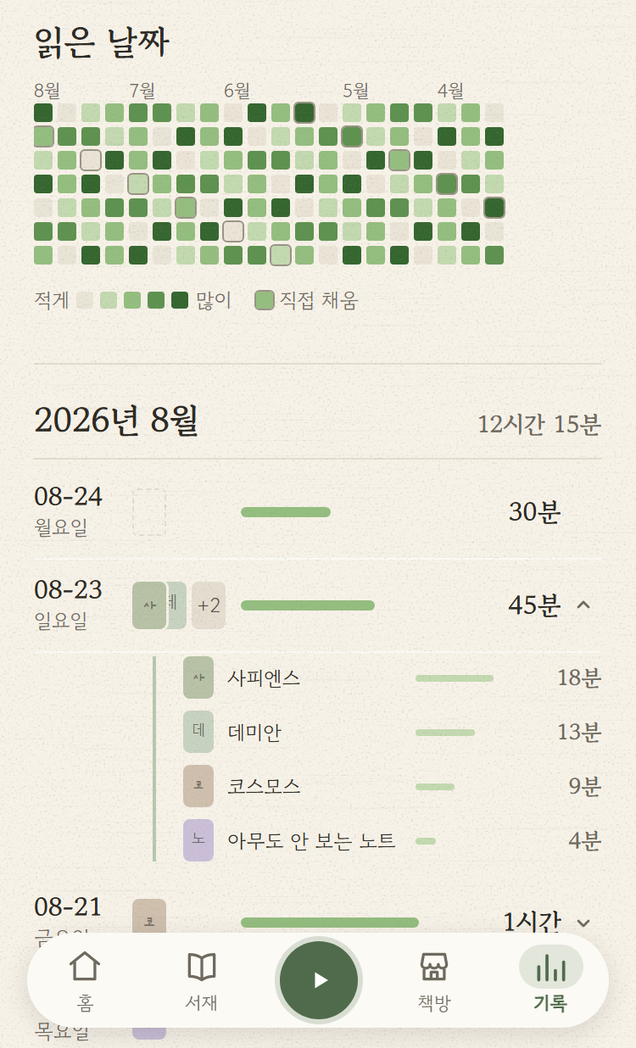
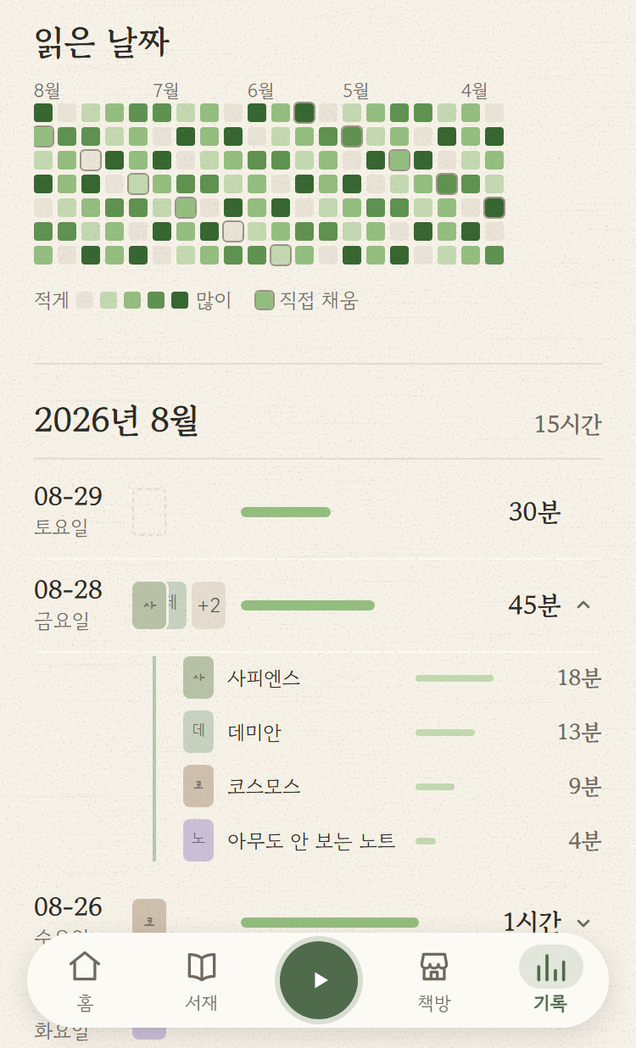
feat(미니앱): 성장 식물 시스템 폐기 1단계 — 기록 상단을 담백한 스탯 줄로 (#983)
* feat(미니앱): 성장 식물 시스템 폐기 1단계 — 기록 상단을 담백한 스탯 줄로

연속일 사다리(땅→새싹→꽃→나무)를 전면 폐기하기로 한 사용자 결정의 1단계.
화면에서 성장 카드를 걷고 그 자리를 상자 없는 스탯 줄(연속·읽은 날·총 시간)로
되돌린다 — 카드가 데려가 있던 연속이 화면으로 돌아온다.

서버는 한 줄도 안 건드린다. 지금 라이브인 6차 번들이 growthStage* 필드를
읽고 있어 먼저 지우면 배포된 앱이 깨진다. JSON에 여분 필드가 남는 것은
클라이언트에 무해하므로 서버 제거는 새 번들 라이브 확인 후 2단계로 미룬다.

- 미니앱: GrowthCard·growthNudge 제거, StatStrip 신설(총 시간 칸만 flex 1.5)
- 타입·목·픽스처에서 growth 6필드 제거
- 웹: 표시가 애초에 없어 타입 선언·테스트 픽스처만 정리(번들 산출물 diff 0)

시안의 fontSize 18은 typography.test의 계단에 없어 19를 썼다.

Session-Model: claude-opus-5[1m]

* refactor(미니앱): 리뷰 반영 — 공허한 부정 단언을 실제 픽스처로, 죽은 코드·낡은 근거 정리

독립 리뷰 3건 반영.

Important — 「2단계에서 필드를 걷어낼 때 undefined를 그리면 안 된다」 테스트가
이름과 달리 아무것도 안 잡았다(T-149 계열). 픽스처에 growth 필드가 없어
화면이 그 필드를 다시 읽어도 undefined가 빈 마크업으로 떨어져 늘 통과했다.
서버가 아직 실어 보내는 레거시 6필드를 채운 확장 픽스처로 렌더하도록 고쳐,
화면이 그중 하나라도 다시 읽으면 값이 마크업에 실려 죽게 했다.

Minor — 죽은 subjectParticle 삭제(유일 호출자가 growthNudge였다), 낡은
근거 3곳 화해(웹 noEmoji 주석·plan.md 2곳: 🌱🌿 허용 근거가 서버 GrowthStage
값이었는데 그 사다리가 사라져 이제 근거는 화면 4곳의 실사용이다).

곁들여 changelog의 돌연변이 실측 표현을 실제 결과에 맞게 고쳤다
(「각각 해당 테스트만」이 아니라 2건·1건·2건).

Session-Model: claude-opus-5[1m]

* chore(스크린샷): 성장 카드 폐기 반영 재촬영 — 04-history·10-landscape

shoot.mjs 한 방으로 6장을 다시 찍었다. 실제로 바뀐 것은 04-history와
그것을 얹은 10-landscape 둘뿐이고 나머지 4장은 바이트째 동일하다 —
그 넷이 안 바뀌었다는 증거다.

⚠ 그 diff는 UI 변경분이 아니라 잔디·날짜의 오늘 기준 이동이다. 이 컷은
「읽은 날짜」를 기준선으로 잡아 스탯 줄보다 아래에서 시작하므로 바뀐 자리가
애초에 화면 밖이다. 즉 콘솔의 옛 그림도 실제와 어긋나지는 않았다.

위에서부터 찍는 구도를 실측으로 재보고(스탯 줄 78·표지 더미 465·탭바 550)
[…]

diff --git a/miniapp/src/screens/History.tsx b/miniapp/src/screens/History.tsx
@@ -4,8 +4,8 @@ import { useEffect, useState } from 'react';
 import type { BookRead, ContributionGraph, DailyRecord, MonthlySection } from '../api';
 import { fetchHistory } from '../api';
 import { CACHE_HISTORY, cacheGet, cachePut } from '../cache';
-import { formatDuration, subjectParticle } from '../format';
-import { BookCover, ErrorMessage, GrassGrid, LEVEL_COLORS, MANUAL_OUTLINE, PENCIL_FRAME, SECTION_RULE, SERIF_VALUE, Screen, SectionTitle, Text, monthLabelPositions } from '../ui';
+import { formatDuration } from '../format';
+import { BookCover, ErrorMessage, GrassGrid, LEVEL_COLORS, MANUAL_OUTLINE, SECTION_RULE, SERIF_VALUE, Screen, SectionTitle, Text, monthLabelPositions } from '../ui';
 
 /** 기록 화면 잔디 칸 — `GrassGrid`의 기본값과 같아야 월 라벨이 그 열 위에 선다. */
 const CELL_SIZE = 11;
@@ -43,13 +43,7 @@ export function History({ graph }: { graph: ContributionGraph }) {
 
   return (
     <Screen title="내 기록">
-      <GrowthCard graph={graph} />
-
-      {/* 연속은 위 성장 카드가 이미 말한다 — 여기 다시 두면 한 화면에서 같은 숫자를 두 번 읽게 된다. */}
-      <div style={{ display: 'flex', gap: 12, marginTop: 14 }}>
-        <Stat label="읽은 날" value={`${graph.activeDays}일`} />
-        <Stat label="총 시간" value={formatDuration(graph.totalSeconds)} />
-      </div>
+      <StatStrip graph={graph} />
 
       {/* 시안 2d — 이 화면이 답하는 것의 이름이라 값으로 조판한다(세리프 20). */}
       <SectionTitle style={{ margin: '24px 0 8px', ...SERIF_VALUE, fontSize: 20 }}>읽은 날짜</SectionTitle>
@@ -80,66 +74,46 @@ export function History({ graph }: { graph: ContributionGraph }) {
 }
 
 /**
- * 다음 단계까지 — 「N일 더 읽으면 …이 돼요」. 최고 단계면 재촉하지 않는다.
+ * 화면 맨 위 스탯 줄 — 연속 · 읽은 날 · 총 시간.
  *
- * <p>「1일 남음」을 「내일」로 바꾸지 않는다: 연속은 <b>유저 타임존의 하루</b> 단위라 자정을 넘기면
- * 기준이 달라져, 오늘 밤 읽는 사람에게 「내일」이 거짓이 된다. 남은 일수는 언제 읽어도 참이다.
+ * <p>여기 있던 식물 성장 카드(땅→새싹→꽃→나무 + 진행 막대)는 폐기했다. 사다리가 주는 것은
+ * 「다음 단계까지 N일」이라는 재촉뿐이었고, 정작 이 화면이 답해야 할 세 수는 카드 안팎으로
+ * 흩어져 있었다. 상자도 배경도 없이 한 줄로 세운다 — 값이 셋뿐이면 칸막이보다 가는 선이 낫다.
+ *
+ * <p>총 시간 칸만 넓다: 「11시간 5분」은 「4일」의 두 배가 넘어, 같은 폭이면 그 칸만 줄바꿈된다.
  */
-export function growthNudge(daysToNext: number, nextLabel: string | null): string {
-  if (nextLabel === null) return '가장 큰 단계예요';
-  // 단계 이름은 서버가 준다(땅·새싹·꽃·나무) — 「나무이 돼요」가 나오지 않게 받침으로 조사를 고른다.
-  return `${daysToNext}일 더 읽으면 ${nextLabel}${subjectParticle(nextLabel)} 돼요`;
-}
+function StatStrip({ graph }: { graph: ContributionGraph }) {
+  const cells = [
+    { label: '연속', value: `${graph.currentStreak}일`, flex: 1 },
+    { label: '읽은 날', value: `${graph.activeDays}일`, flex: 1 },
+    { label: '총 시간', value: formatDuration(graph.totalSeconds), flex: 1.5 },
+  ];
 
-/**
- * 성장 카드 — 이 앱이 주는 유일한 보상을 카드로 세운다.
- *
- * <p>전에는 스탯과 잔디 사이에 `🌿 어린 나무` 한 줄이 각주처럼 끼어 있었다. 문제가 둘이었다:
- * ① 보상인데 <b>강조가 하나도 없고</b> ② 이 단계가 <b>어디서 오는지</b>가 화면 어디에도 없었다
- * (연속 일수가 정본인데 그 숫자는 옆 칸에 따로 서 있었다). 그래서 연속을 이 카드 안으로 들여
- * 「연속 N일째 → 지금 단계 → 다음 단계까지」 한 흐름으로 묶는다.
- */
-function GrowthCard({ graph }: { graph: ContributionGraph }) {
   return (
-    <div
-      style={{
-        display: 'flex',
-        alignItems: 'center',
-        gap: 12,
-        padding: 14,
-        borderRadius: 12,
-        background: 'var(--adaptiveGrey100, #FCFAF5)',
-        border: '1px solid transparent',
-        borderImage: PENCIL_FRAME,
-      }}
-    >
-      {/* 단계 그림은 서버가 준다(땅·새싹·꽃·나무) — 화면이 사다리를 다시 정하지 않는다. */}
-      <span aria-hidden="true" style={{ flex: '0 0 auto', fontSize: 26, lineHeight: 1 }}>
-        {graph.growthStageEmoji}
-      </span>
-      <div style={{ flex: 1, minWidth: 0 }}>
-        <Text typography="st12" color="grey600" style={{ display: 'block' }}>
-          연속 {graph.currentStreak}일째
-        </Text>
-        <Text typography="t6" fontWeight="bold" style={{ ...SERIF_VALUE, display: 'block', lineHeight: 1.25 }}>
-          {graph.growthStageLabel}
-        </Text>
-        {/* 막대는 「지금 단계 안에서 얼마나 왔나」 — 서버가 퍼센트로 계산해 준다. */}
-        <div style={{ height: 5, borderRadius: 3, background: 'var(--adaptiveGrey200, #E4DDD0)', marginTop: 7 }}>
-          <span
-            style={{
-              display: 'block',
-              width: `${graph.growthProgressPercent}%`,
-              height: '100%',
-              borderRadius: 3,
-              background: 'var(--adaptiveBlue500, #6E8A6A)',
-            }}
-          />
+    <div style={{ display: 'flex', marginTop: 14 }}>
+      {cells.map(({ label, value, flex }, index) => (
+        <div
+          key={label}
+          style={
+            index === 0
+              ? { flex }
+              : { flex, borderLeft: '1px solid var(--adaptiveGrey200, #E4DDD0)', paddingLeft: 14 }
+          }
+        >
+          <Text typography="st12" color="grey600" style={{ display: 'block' }}>
+            {label}
+          </Text>
+          {/* 세리프 + 19 — 라벨(st12)과 크기·서체 두 축으로 갈린다. 시안은 18이었으나 계단에 18은
+              없다(`typography.test` SCALE) — 한 값 때문에 계단을 넓히느니 옆 칸을 쓴다. */}
+          <Text
+            typography="st10"
+            fontWeight="bold"
+            style={{ ...SERIF_VALUE, display: 'block', fontSize: 19, marginTop: 3, whiteSpace: 'nowrap' }}
+          >
+            {value}
+          </Text>
         </div>
-        <Text typography="st12" color="grey600" style={{ display: 'block', marginTop: 4 }}>
-          {growthNudge(graph.daysToNextStage, graph.nextStageLabel)}
-        </Text>
-      </div>
+      ))}
     </div>
   );
 }
@@ -604,30 +578,6 @@ function Legend() {
       <span style={{ ...swatch, marginLeft: 10, background: LEVEL_COLORS[2], outline: MANUAL_OUTLINE }} />
       <Text typography="st12" color="grey600">
         직접 채움
-      </Text>
-    </div>
-  );
-}
-
-function Stat({ label, value }: { label: string; value: string }) {
-  return (
-    <div
-      style={{
-        flex: 1,
-        padding: '16px 12px',
-        borderRadius: 12,
-        background: 'var(--adaptiveGrey100, #FCFAF5)',
-        border: '1px solid transparent',
-        borderImage: PENCIL_FRAME,
-        textAlign: 'center',
-      }}
-    >
-      <Text typography="st12" color="grey600" style={{ display: 'block' }}>
-        {label}
-      </Text>
-      {/* 세리프 + st10 — 라벨(st12)과 크기·서체 두 축으로 갈린다. 전에는 3px 차이가 전부였다. */}
-      <Text typography="st10" fontWeight="bold" style={{ ...SERIF_VALUE, display: 'block', marginTop: 4 }}>
-        {value}
       </Text>
     </div>
   );

diff --git a/miniapp/src/history.test.tsx b/miniapp/src/history.test.tsx
@@ -3,7 +3,7 @@ import { readFileSync } from 'node:fs';
 import { renderToStaticMarkup } from 'react-dom/server';
 import { beforeEach, describe, expect, it } from 'vitest';
 
-import type { DailyRecord, MonthlySection } from './api';
+import type { ContributionGraph, DailyRecord, MonthlySection } from './api';
 import { CACHE_HISTORY, cacheClear, cachePut } from './cache';
 import {
   DayRow,
@@ -15,7 +15,6 @@ import {
   formatMonthTitle,
   formatRecordDate,
   formatWeekday,
-  growthNudge,
   isExpandable,
 } from './screens/History';
 import { graph, userAgent } from './test-fixtures';
@@ -26,20 +25,6 @@ import { monthLabelPositions } from './ui';
  * 웹 `ContributionGraph.vue`는 CSS 그리드의 `gridColumnStart`가 열을 맞춰 주지만, 미니앱 격자는
  * flex + 고정 칸이라 열 자리를 직접 계산해야 한다 — 그 계산만 꺼내 계측한다.
  */
-describe('성장 단계 문구 (growthNudge)', () => {
-  it('다음 단계가 남아 있으면 며칠 더 읽어야 하는지 말한다 — 계속 읽을 이유가 화면에 남는다', () => {
-    expect(growthNudge(2, '꽃')).toBe('2일 더 읽으면 꽃이 돼요');
-  });
-
-  it('하루 남았으면 「1일」이라고 그대로 적는다 — 「내일」로 바꾸면 자정 기준이 달라 거짓이 된다', () => {
-    expect(growthNudge(1, '나무')).toBe('1일 더 읽으면 나무가 돼요');
-  });
-
-  it('가장 큰 단계면 재촉하지 않는다 — 더 오를 곳이 없는데 남은 일수를 적으면 거짓말이다', () => {
-    expect(growthNudge(0, null)).toBe('가장 큰 단계예요');
-  });
-});
-
 describe('월 라벨 배치', () => {
   const at = (...weekIndexes: number[]) => weekIndexes.map((weekIndex) => ({ weekIndex, label: `${weekIndex}월` }));
 
@@ -89,6 +74,62 @@ describe('기록 화면', () => {
   it('가로 스크롤을 손대지 않는다 — weeks[0]이 최신이라 초기 위치(왼쪽 끝)가 이미 오늘이다', () => {
     // 마운트 이펙트는 정적 렌더에 안 잡히니 소스로 계측한다. 오른쪽 끝으로 밀면 1년 전 빈 잔디가 뜬다.
     expect(readFileSync(new URL('./screens/History.tsx', import.meta.url), 'utf8')).not.toContain('scrollLeft');
+  });
+});
+
+/**
+ * 화면 맨 위 스탯 줄 — 연속 · 읽은 날 · 총 시간.
+ *
+ * <p>전에는 여기 <b>식물 성장 카드</b>(땅→새싹→꽃→나무)가 서 있었다. 그 사다리를 통째로 폐기하면서
+ * 이 자리는 「이 화면이 답하는 세 수」만 담백하게 적는다 — 연속은 카드가 데려가 있던 값이라
+ * 카드를 걷으면 화면 어디에도 안 남는다. 그래서 셋을 한 줄로 되돌린다.
+ */
+describe('기록 상단 스탯 줄', () => {
+  const markup = renderToStaticMarkup(
+    <TDSMobileProvider userAgent={userAgent}>
+      <History graph={graph} />
+    </TDSMobileProvider>,
+  );
+
+  it('연속·읽은 날·총 시간 셋을 라벨과 값으로 적는다 — 카드가 데려갔던 연속이 여기로 돌아온다', () => {
+    expect(markup).toContain('>연속<');
+    expect(markup).toContain(`>${graph.currentStreak}일<`);
+    expect(markup).toContain('>읽은 날<');
+    expect(markup).toContain(`>${graph.activeDays}일<`);
+    expect(markup).toContain('>총 시간<');
+    expect(markup).toContain('>1시간<');
+  });
+
+  /**
+   * ⚠ <b>기본 픽스처로 이 단언을 걸면 공허하다</b>(T-149의 부정 단언 함정) — `graph`엔 growth 필드가
+   * 없어서, 화면이 그 필드를 <b>다시 읽어도</b> `undefined`가 빈 마크업으로 떨어져 「🌱이 없다」가
+   * 구현과 무관하게 늘 참이 된다. 실제로 리뷰가 필드 읽기를 되살렸는데 전원 통과했다.
+   *
+   * <p>그래서 <b>서버가 아직 실어 보내는 레거시 6필드를 일부러 채워</b> 렌더한다. 2단계(서버 제거)
+   * 전까지 응답의 실제 모습이 이것이고, 화면이 그중 하나라도 다시 읽으면 값이 마크업에 실려 죽는다.
+   */
+  const legacyGraph = {
+    ...graph,
+    growthStageName: 'SPROUT',
+    growthStageEmoji: '🌱',
+    growthStageLabel: '새싹',
+    growthProgressPercent: 33,
+    daysToNextStage: 2,
+    nextStageLabel: '꽃',
+  } as ContributionGraph;
+
+  it('응답에 남아 있는 growth 필드를 화면이 그리지 않는다 — 서버 제거(2단계)는 새 번들 라이브 후라 그때까진 실려 온다', () => {
+    const legacy = renderToStaticMarkup(
+      <TDSMobileProvider userAgent={userAgent}>
+        <History graph={legacyGraph} />
+      </TDSMobileProvider>,
+    );
+
+    expect(legacy).not.toContain('🌱');
+    expect(legacy).not.toContain('새싹');
+    expect(legacy).not.toContain('돼요');
+    // 진행 막대 — 픽스처 진행률 33%가 화면 어디에도 남지 않는다.
+    expect(legacy).not.toContain('width:33%');
   });
 });
 

diff --git a/miniapp/src/format.ts b/miniapp/src/format.ts
@@ -5,7 +5,9 @@
  * 숫자는 <b>읽는 소리</b>를 따르고(1984 → "사" → 받침 없음), 그 밖(영문·기호·빈 문자열)은 받침 없음으로
  * 떨어뜨린다 — 어느 쪽이든 문장이 깨지지 않는 게 우선이다.
  *
- * <p>피드 문장(을/를)과 성장 문구(이/가)가 <b>같은 판정</b>을 쓴다. 두 벌로 두면 한쪽만 고쳐진다.
+ * <p>지금 이 판정을 쓰는 곳은 피드 문장의 목적격 조사(을/를) 하나다 — 주격(이/가)을 쓰던 성장 문구는
+ * 사다리와 함께 폐기됐다(2026-08-29). 조사가 다시 늘면 그때도 <b>이 함수 하나</b>를 쓴다: 두 벌로
+ * 두면 한쪽만 고쳐진다(「나무이 돼요」가 그렇게 났다).
  */
 export function hasFinalConsonant(word: string): boolean {
   const last = word.at(-1);
@@ -19,11 +21,6 @@ export function hasFinalConsonant(word: string): boolean {
   if (last >= '0' && last <= '9') return DIGIT_HAS_FINAL[Number(last)];
 
   return false;
-}
-
-/** 주격 조사 — 받침이 있으면 「이」, 없으면 「가」. */
-export function subjectParticle(word: string): string {
-  return hasFinalConsonant(word) ? '이' : '가';
 }
 
 /** 목적격 조사 — 받침이 있으면 「을」, 없으면 「를」. */

diff --git a/frontend/src/noEmoji.test.ts b/frontend/src/noEmoji.test.ts
@@ -26,8 +26,10 @@ const EMOJI = /[\u{1F300}-\u{1FAFF}\u{1F000}-\u{1F2FF}\u{2600}-\u{27BF}\u{2B00}-
  * 이 규칙에서 빼는 문자 — 미니앱 `ALLOWED`와 같은 목록이다(두 화면이 갈리면 규칙이 아니게 된다).
  *
  * <p>`✕`(U+2715)는 기호대에 살아 정규식에 걸리지만 <b>이모지가 아니다</b> — 닫기 표식이라 AI 표식으로
- * 읽히지 않는다. `🌱🌿`는 「정원·마을」이라는 이 서비스의 핵심 은유이자 서버 `GrowthStage`가 내려주는
- * 값이다. 여기는 지우는 게 아니라 <b>자체 일러스트로 제대로 만드는</b> 자리라 백로그로 남겼다(plan.md).
+ * 읽히지 않는다. `🌱🌿`는 「정원·마을」이라는 이 서비스의 핵심 은유라 화면들이 직접 쓴다
+ * (`BooksApp.vue`·`TimerCard.vue`·`VillageApp.vue`·`DexDetailSheet.vue`) — 서버 `GrowthStage`가
+ * 근거이던 시절도 있었으나 그 사다리는 2026-08-29에 폐기됐고, 남은 근거는 이 실사용이다.
+ * 여기는 지우는 게 아니라 <b>자체 일러스트로 제대로 만드는</b> 자리라 백로그로 남겼다(plan.md).
  */
 const ALLOWED = new Set(['✕', '🌱', '🌿']);
 

diff --git a/miniapp/src/no-emoji.test.ts b/miniapp/src/no-emoji.test.ts
@@ -26,8 +26,9 @@ const EMOJI = /[\u{1F300}-\u{1FAFF}\u{1F000}-\u{1F2FF}\u{2600}-\u{27BF}\u{2B00}-
  * 이 규칙에서 빼는 문자.
  *
  * <p>`✕`(U+2715)는 기호대에 살아 정규식에 걸리지만 <b>이모지가 아니다</b> — 닫기 표식이라 AI 표식으로
- * 읽히지 않는다. `🌱🌿`는 「정원·마을」이라는 이 앱의 핵심 은유이자 서버가 내려주는 `growthStageEmoji`의
- * 값이다. 여기는 지우는 게 아니라 <b>자체 일러스트로 제대로 만드는</b> 자리라 백로그로 남겼다(plan.md).
+ * 읽히지 않는다. `🌱🌿`는 「정원·마을」이라는 이 앱의 핵심 은유라 홈·목표 화면이 아직 쓴다(기록 화면의
+ * 식물 성장 카드는 2026-08-29에 폐기했다). 여기는 지우는 게 아니라 <b>자체 일러스트로 제대로 만드는</b>
+ * 자리라 백로그로 남겼다(plan.md).
  */
 const ALLOWED = new Set(['✕', '🌱', '🌿']);
 

diff --git a/miniapp/src/api.ts b/miniapp/src/api.ts
@@ -207,15 +207,8 @@ export interface ContributionGraph {
   totalSeconds: number;
   activeDays: number;
   currentStreak: number;
-  growthStageName: string;
-  growthStageEmoji: string;
-  growthStageLabel: string;
-  /** 현재 단계 안의 진행률(0~100). 최고 단계면 100 — 막대가 빈 채로 남지 않는다. */
-  growthProgressPercent: number;
-  /** 다음 단계까지 남은 연속 일수. 최고 단계면 0. */
-  daysToNextStage: number;
-  /** 다음 단계 이름. 최고 단계면 null(더 오를 곳이 없다). */
-  nextStageLabel: string | null;
+  // 식물 성장 단계(growthStage*·daysToNextStage·nextStageLabel)는 폐기했다. 서버는 아직 그 필드를
+  // 실어 보내지만(라이브 번들이 읽고 있어 2단계에서 걷는다) 이 화면은 더 이상 읽지 않는다.
 }
 
 export interface TimerState {

diff --git a/miniapp/src/typography.test.tsx b/miniapp/src/typography.test.tsx
@@ -284,9 +284,9 @@ describe('값(수)은 세리프로 온다', () => {
     expect(tagOf(history, `${graph.activeDays}일`)).toContain('Gowun Batang');
   });
 
-  it('성장 단계 이름이 세리프다 — 그 카드가 말하려는 성취다', () => {
+  it('연속 일수도 세리프다 — 같은 줄에 선 세 값이 서체가 갈리면 줄이 아니라 파편으로 읽힌다', () => {
     const history = render(<History graph={graph} />);
-    expect(tagOf(history, graph.growthStageLabel)).toContain('Gowun Batang');
+    expect(tagOf(history, `${graph.currentStreak}일`)).toContain('Gowun Batang');
   });
 
   it('책방 카운트 숫자가 세리프다 — 500을 부르다 400으로 떨어져 라벨보다 얇던 자리', () => {

diff --git a/miniapp/src/dev-mock.ts b/miniapp/src/dev-mock.ts
@@ -125,14 +125,6 @@ function buildGraph(): ContributionGraph {
     activeDays,
     // 오늘(offset 0)부터 처음 0레벨을 만나기까지 = 연속일. 패턴에 0이 있어 반드시 끝난다.
     currentStreak: LEVELS.indexOf(0),
-    // ⚠ 서버 사다리(GrowthStage)는 땅·새싹·꽃·나무 넷뿐이다 — 한때 목이 「SAPLING·🌿·어린 나무」라는
-    // 서버에 없는 단계를 그렸다. 목이 실제와 다르면 브라우저 확인이 통과해도 아무것도 증명하지 못한다.
-    growthStageName: 'SPROUT',
-    growthStageEmoji: '🌱',
-    growthStageLabel: '새싹',
-    growthProgressPercent: 33,
-    daysToNextStage: 2,
-    nextStageLabel: '꽃',
   };
 }
 

diff --git a/frontend/src/history/HistoryApp.vue b/frontend/src/history/HistoryApp.vue
@@ -24,8 +24,7 @@ export interface GraphDto {
     totalSeconds: number;
     activeDays: number;
     currentStreak: number;
-    growthEmoji: string;
-    growthLabel: string;
+    // 식물 성장 단계(growthEmoji·growthLabel)는 폐기했다 — 서버는 아직 실어 보내지만 화면이 안 읽는다.
 }
 
 /** `session.BookRead` — 그날 이 책만 읽은 시간. 표지·시간은 미니앱 기록 화면이 쓰고, 웹은 제목만 쓴다. */

diff --git a/frontend/test/dashboard-tag-flow.test.ts b/frontend/test/dashboard-tag-flow.test.ts
@@ -9,7 +9,6 @@ import DashboardApp from '../src/dashboard/DashboardApp.vue';
 const GRAPH = {
     weeks: [[{ date: null, totalSeconds: 0, level: 0, manual: false }]],
     monthLabels: [], totalSeconds: 0, activeDays: 0, currentStreak: 0,
-    growthStageName: 'SPROUT', growthStageEmoji: '🌱', growthStageLabel: '새싹',
 };
 
 // 책 없이 측정 "중"으로 시작(activeBookTitle=null) → 종료 시 untagged 시트가 떠야 한다.

diff --git a/frontend/test/welcome-banner.test.ts b/frontend/test/welcome-banner.test.ts
@@ -10,7 +10,6 @@ import DashboardApp from '../src/dashboard/DashboardApp.vue';
 const GRAPH = {
     weeks: [[{ date: null, totalSeconds: 0, level: 0, manual: false }]],
     monthLabels: [], totalSeconds: 0, activeDays: 0, currentStreak: 0,
-    growthStageName: 'SPROUT', growthStageEmoji: '🌱', growthStageLabel: '새싹',
 };
 const DASHBOARD = {
     nickname: '테스터', loginId: 'tester', profileCharacterCode: null,

diff --git a/frontend/test/dashboard-start-flow.test.ts b/frontend/test/dashboard-start-flow.test.ts
@@ -9,7 +9,6 @@ import DashboardApp from '../src/dashboard/DashboardApp.vue';
 const GRAPH = {
     weeks: [[{ date: null, totalSeconds: 0, level: 0, manual: false }]],
     monthLabels: [], totalSeconds: 0, activeDays: 0, currentStreak: 0,
-    growthStageName: 'SPROUT', growthStageEmoji: '🌱', growthStageLabel: '새싹',
 };
 const DASHBOARD = {
     nickname: '테스터', loginId: 'tester', profileCharacterCode: null,
